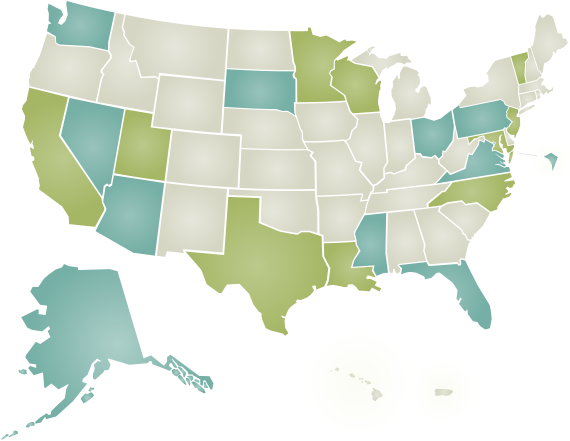
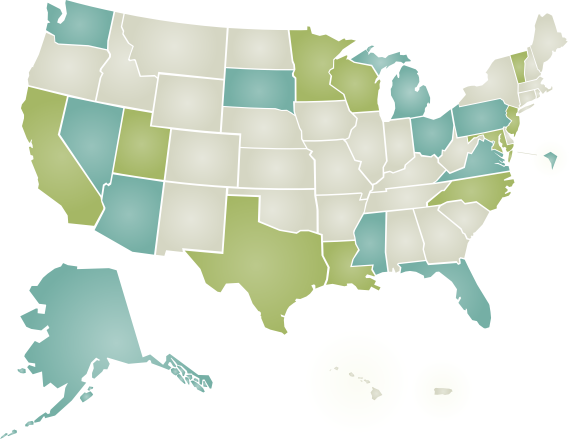
add MI to experimental states

diff --git a/templates/status.html b/templates/status.html
@@ -16,13 +16,15 @@ states.
 <p>
 
 <p>If you are curious about the specific status of state data check below
-for any <a href="#state-specific">state specific issues</a> or ask on
-<a href="http://groups.google.com/group/fifty-state-project">the Open States
-google group</a>.</p>
+for any <a href="#state-specific">state specific issues</a> or check out the
+<a href="/status/detailed/">detailed status</a> page for a listing of all
+data we have across states.</p>
 
 <p>If you encounter issues using data from any state please let us know via the
 <a href="http://code.google.com/p/openstates/issues/list">
-Open State Project Issue Tracker</a>.
+Open State Project Issue Tracker</a> or mention it on
+<a href="http://groups.google.com/group/fifty-state-project">the Open States
+google group</a>.</p>
 
 <h3> State Status </h3>
 
@@ -35,7 +37,7 @@ New Jersey, North Carolina, Texas, Utah, Vermont, and Wisconsin.</p>
 
 <h4> Experimental States </h4>
 <p> Experimental states (in blue) are those that we support but have not yet promoted to ready
-status.  Alaska, Arizona, Florida, Mississippi, Nevada, Ohio,
+status.  Alaska, Arizona, Florida, Michigan, Mississippi, Nevada, Ohio,
 Pennsylvania, South Dakota, Virginia, Washington and Washington DC fall in this category.</p>
 
 <h4> Unsupported States </h4>
